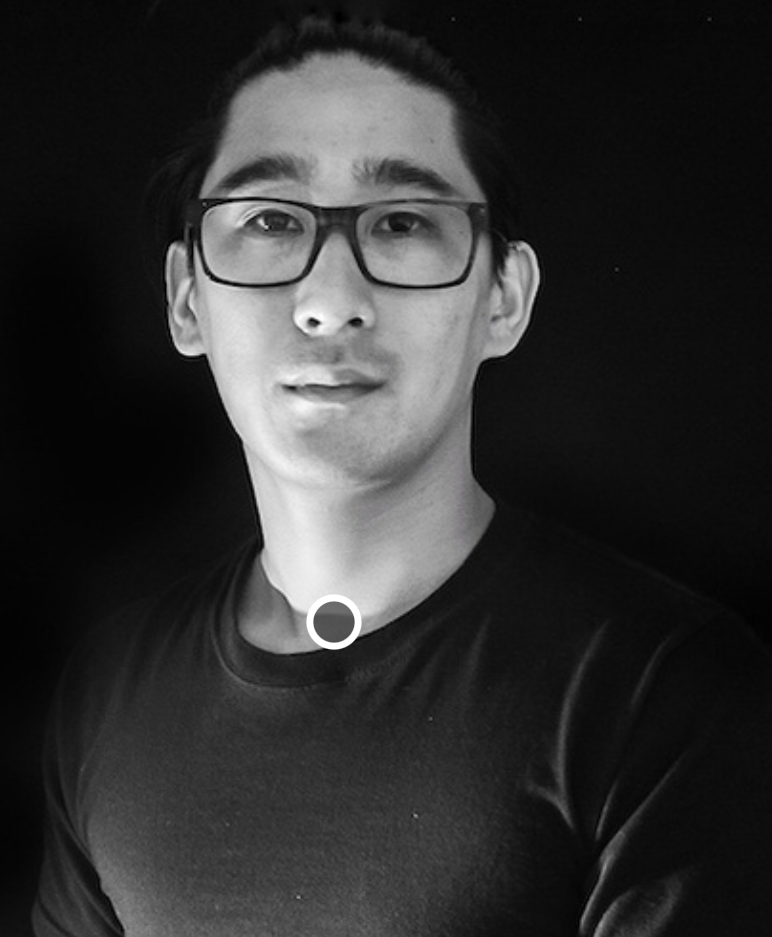
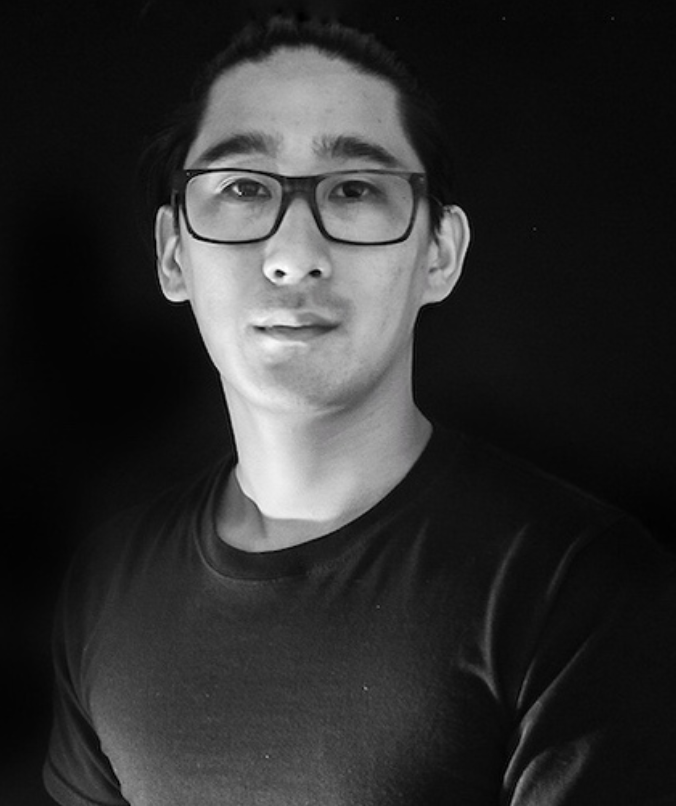
Small additions
Added nav bar, changed profile pic

diff --git a/index.html b/index.html
@@ -13,6 +13,42 @@
 </head>
 
 <body>
+    <!--================= Header ===============-->
+    <header class="header" id="header">
+      <nav class="nav container">
+        <div class="nav__menu" id="nav-menu">
+          <ul class="nav__list">
+            <li>
+              <a href="#home" class="nav__link active-link">Hello</a>
+            </li>
+            <li>
+              <a href="#services" class="nav__link">Services</a>
+            </li>
+            <li>
+              <a href="#resume" class="nav__link">Resume</a>
+            </li>
+            <li>
+              <a href="#portfolio" class="nav__link">Portfolio</a>
+            </li>
+            <li>
+              <a href="#blog" class="nav__link">Blog</a>
+            </li>
+            <li>
+              <a href="#contact" class="nav__link">Contact</a>
+            </li>
+          </ul>
+
+          <div class="nav__close" id="nav-close">
+            <i class="ri-close-fill"></i>
+          </div>
+        </div>
+
+        <div class="nav__toggle" id="nav-toggle">
+          <i class="ri-menu-fill"></i>
+        </div>
+      </nav>
+    </header>
+
    <!--================= Main ===============-->
   <main class="main">
      <!--================= Home ===============-->

diff --git a/Assets/CSS/style.css b/Assets/CSS/style.css
@@ -108,6 +108,54 @@ input {
   display: grid;
 }
 
+/*========== Header ==========*/
+
+.header {
+  position: absolute;
+  top: 0;
+  left: 0;
+  width: 100%;
+  z-index: 100;
+}
+
+.nav {
+  height: calc(var(--header-height) + 0.875rem);
+  display: flex;
+  align-items: flex-end;
+}
+
+.nav__list {
+  display: flex;
+  column-gap: 3.25rem;
+}
+
+.nav__link {
+  color: #fff;
+  font-size: 0.9rem;
+  font-weight: var(--bold);
+  font-family: var(--mono-font);
+  text-transform: uppercase;
+  transition: 0.3s;
+}
+
+.nav__link:hover {
+  opacity: 0.5;
+}
+
+nav__link::after {
+  content: '';
+  position: absolute;
+  bottom: 0;
+  right: -0.5rem;
+  width: 7px;
+  height: 2px;background-color: #fff;
+}
+
+.nav__close,
+.nav__toggle {
+  display: none;
+}
+
 /*========== Home ==========*/
 .home {
   background: url(../img/marble-bg.jpg);
